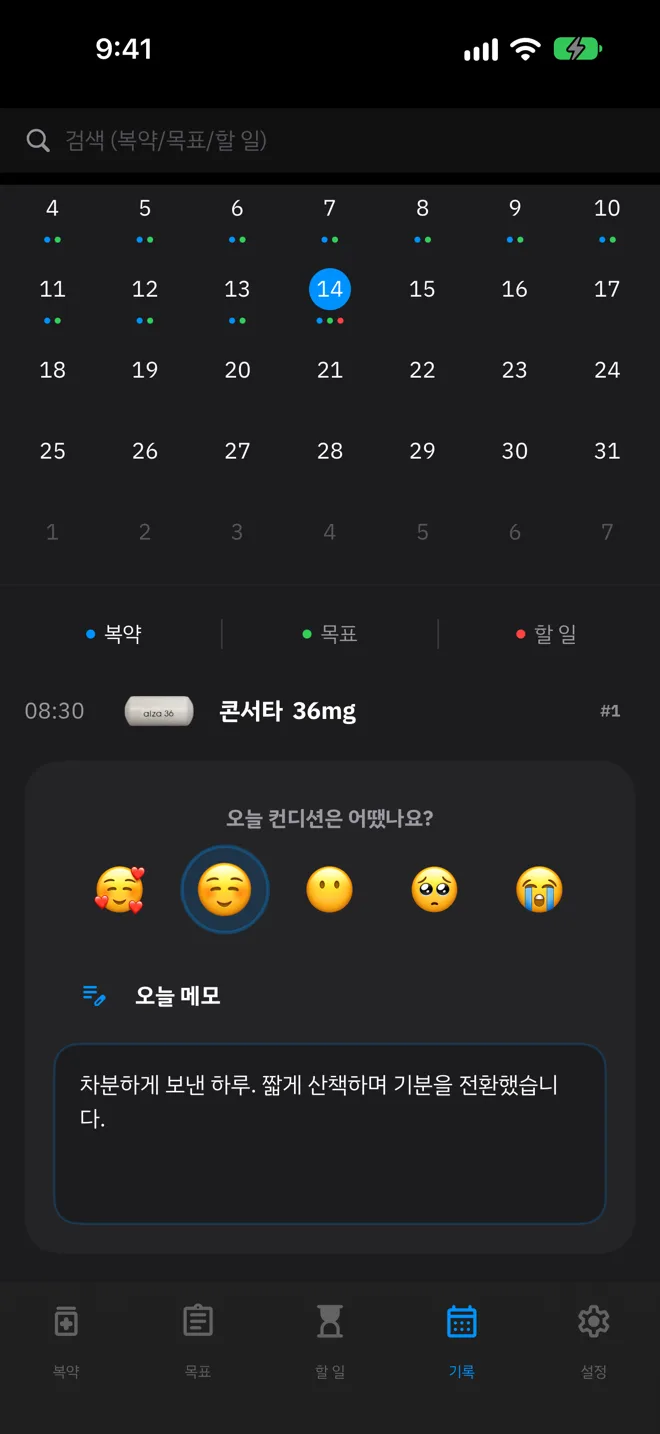
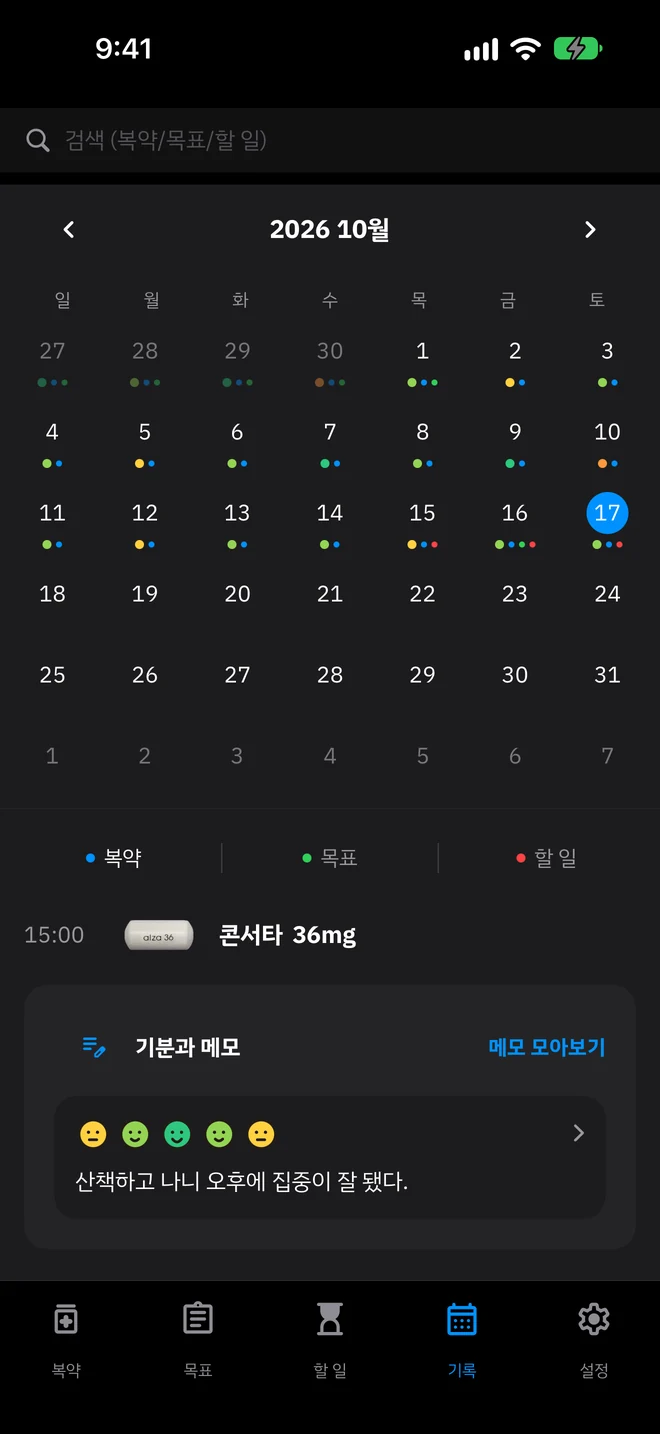
Refresh Peakly screenshots for release 106 and add mood check-in section

diff --git a/src/i18n.ts b/src/i18n.ts
@@ -59,6 +59,7 @@ export const ui = {
             intro: '약을 먹은 시간 하나로 약효의 흐름을 봅니다.',
             rows: [
               { shot: 'chart', label: '예상 약효 곡선', title: '지금 약효가 어디쯤인지.', body: '콘서타와 메디키넷의 참고 곡선으로 시간대별 예상 약효를 그립니다. 오르는 중인지, 피크인지, 끝나가는지 바로 보이고, 피크 구간은 내 몸에 맞게 직접 옮길 수 있습니다. 곡선 아래에는 Apple Watch가 잰 심박수와 움직임이 같은 시간축으로 붙습니다.', alt: '콘서타 예상 약효 곡선과 그 아래 심박수, 움직임 그래프가 있는 Peakly 복약 화면' },
+              { shot: 'mood', label: '기분 체크인', title: '기분은 한 번 탭으로, 메모는 그 옆에.', body: '복약 탭에서 다섯 가지 표정 중 하나를 누르면 그 시각의 기분이 기록됩니다. 하루에 몇 번이든 남길 수 있고, 약효 곡선 아래 띠에는 그날 남긴 기분이 시간 순서대로 색 점으로 찍힙니다. 한 줄 메모도 같은 카드에서 바로 적습니다.', alt: '다섯 가지 표정과 메모 줄이 있는 기분 카드, 그 아래 약효 곡선과 기분 기록 띠가 있는 Peakly 복약 화면' },
               { shot: 'lock', label: '다이나믹 아일랜드·잠금 화면', title: '남은 약효 시간이 늘 화면 위에.', body: 'iPhone은 다이나믹 아일랜드와 잠금 화면, Apple Watch 스마트 스택에, Android는 알림 영역에 남은 약효 시간이 계속 떠 있습니다. 약효가 오를 때, 최대 농도 구간에 들어설 때, 끝나갈 때는 알림으로 알려줍니다.', alt: '다이나믹 아일랜드와 잠금 화면에 콘서타 36mg 메인 피크와 남은 시간이 표시된 iPhone' },
               { shot: 'report', pdf: true, label: 'PDF 리포트', title: '진료 때 보여줄 기록을 PDF로.', body: '기간을 고르면 "지난 N일, 이렇게 지냈어요" 리포트가 두 장짜리 PDF로 만들어집니다. 복용 기록, 이전 기간과 비교한 몸 상태 변화, 하루 중 약효 흐름, 기분 메모와 진료 때 물어볼 질문을 담습니다. 진료실에서 화면을 넘기지 않고 그대로 보여주면 됩니다.', alt: '기간을 고르는 PDF 리포트 생성 화면과, 복용 기록과 몸 상태 변화가 정리된 리포트 첫 장' },
             ],
@@ -159,6 +160,7 @@ export const ui = {
             intro: 'One logged dose time shows how your medication flows through the day.',
             rows: [
               { shot: 'chart', label: 'Estimated effect curve', title: 'Know where your medication is.', body: 'Reference curves for Concerta and Medikinet show your estimated effect through the day. See at a glance whether it is rising, peaking, or wearing off, and move the peak window to match how you feel. Heart rate and movement from Apple Watch sit right below on the same timeline.', alt: 'Peakly medication screen with the expected Concerta curve above heart rate and movement graphs' },
+              { shot: 'mood', label: 'Mood check-in', title: 'One tap for your mood, a note beside it.', body: 'On the Medication tab, tap one of five faces to log how you feel right now. Log as often as you like during the day; the strip under the effect curve places each mood as a colored dot in time order. A one-line note goes in the same card.', alt: 'Peakly medication screen with a mood card of five faces and a note line, above the effect curve and a mood log strip' },
               { shot: 'lock', label: 'Dynamic Island and Lock Screen', title: 'Time left, always on screen.', body: 'The time your medication has left stays in the Dynamic Island, on the Lock Screen, and in the Apple Watch Smart Stack, and in the notification shade on Android. Notifications tell you when it starts rising, when the peak window begins, and when it is wearing off.', alt: 'iPhone Dynamic Island and Lock Screen showing Concerta 36mg at its main peak with the time left' },
               { shot: 'report', pdf: true, label: 'PDF report', title: 'Your records as a PDF for your doctor.', body: 'Pick a period and Peakly makes a two-page PDF, "How the last N days went." It covers your dose records, body changes compared with the previous period, how the effect ran through the day, your mood notes, and questions to ask at the visit. Show it as is instead of scrolling through your phone.', alt: 'PDF report screen for choosing a period, next to the first page of the report with dose records and body changes' },
             ],
@@ -259,6 +261,7 @@ export const ui = {
             intro: '飲んだ時刻ひとつで、作用の流れがわかります。',
             rows: [
               { shot: 'chart', label: '予測グラフ', title: 'いま、作用はどのあたりか。', body: 'コンサータとメディキネットの参考曲線で、時間ごとの作用の予測を描きます。上がっている途中か、ピークか、切れかけているかがひと目でわかり、ピークの時間帯は自分の感覚に合わせて動かせます。曲線の下には、Apple Watchが計測した心拍数と動きが同じ時間軸で並びます。', alt: 'コンサータの予想曲線と心拍数・動きのグラフが並ぶPeaklyの服薬画面' },
+              { shot: 'mood', label: '気分チェックイン', title: '気分はワンタップで、メモはその隣に。', body: '服薬タブで5つの表情のどれかをタップすると、その時刻の気分が記録されます。一日に何回でも残せて、作用グラフの下の帯には、その日に記録した気分が時間順に色の点で並びます。ひとことメモも同じカードにそのまま書けます。', alt: '5つの表情とメモ欄がある気分カードと、その下に作用グラフと気分の記録の帯があるPeaklyの服薬画面' },
               { shot: 'lock', label: 'Dynamic Island・ロック画面', title: '作用の残り時間を、いつも画面に。', body: 'iPhoneではDynamic Island、ロック画面、Apple Watchのスマートスタックに、Androidでは通知エリアに、作用の残り時間が表示され続けます。作用が上がり始めたとき、ピークの時間帯に入ったとき、切れかけたときは通知でお知らせします。', alt: 'Dynamic Islandとロック画面に、コンサータ36mgのメインピークと残り時間を表示したiPhone' },
               { shot: 'report', pdf: true, label: 'PDFレポート', title: '診察で見せる記録を、PDFで。', body: '期間を選ぶと、「直近N日間、こんなふうに過ごしました」というレポートが2ページのPDFになります。服薬記録、前の期間と比べた体の変化、一日の作用の流れ、気分のメモ、診察で聞きたいことを載せます。診察室でスマホをスクロールせず、そのまま見せられます。', alt: '期間を選ぶPDFレポート作成画面と、服薬記録と体の変化がまとまったレポートの1ページ目' },
             ],
